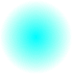
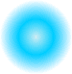
updated particle image

diff --git a/star-collector/src/ParticleConfig.js b/star-collector/src/ParticleConfig.js
@@ -1,0 +1,12 @@
+export default {
+  x: 400,
+  y: 300,
+  speed: 200,
+  lifespan: 500,
+  blendMode: 'ADD',
+  scale: {
+    start: 1,
+    end: 0,
+  },
+  on: false,
+};
